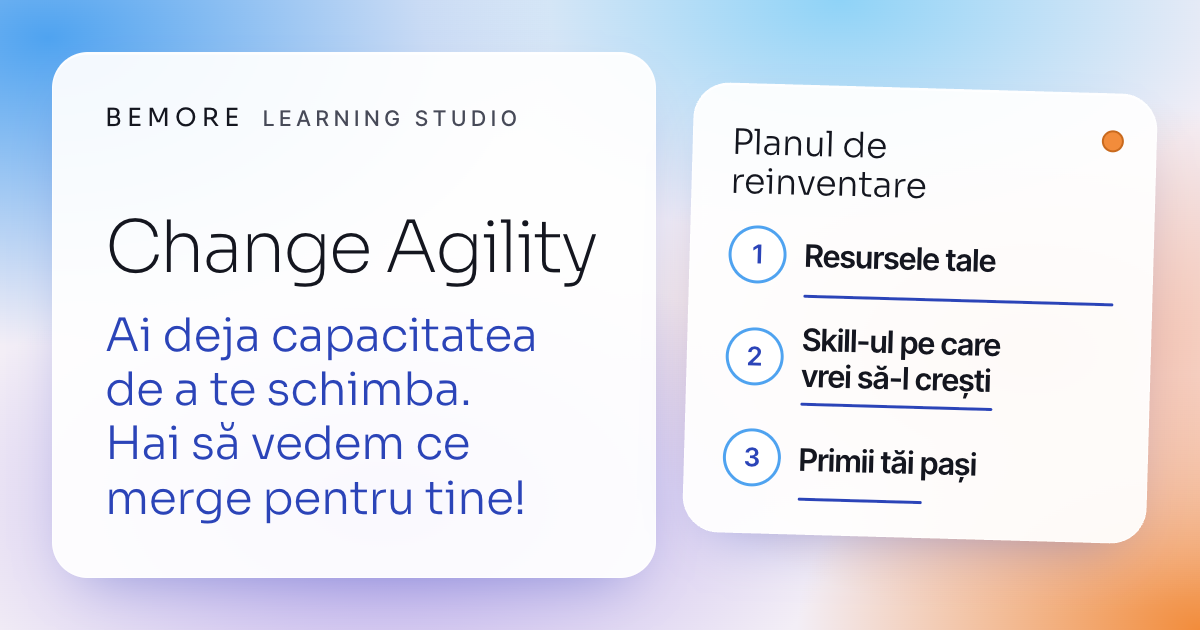
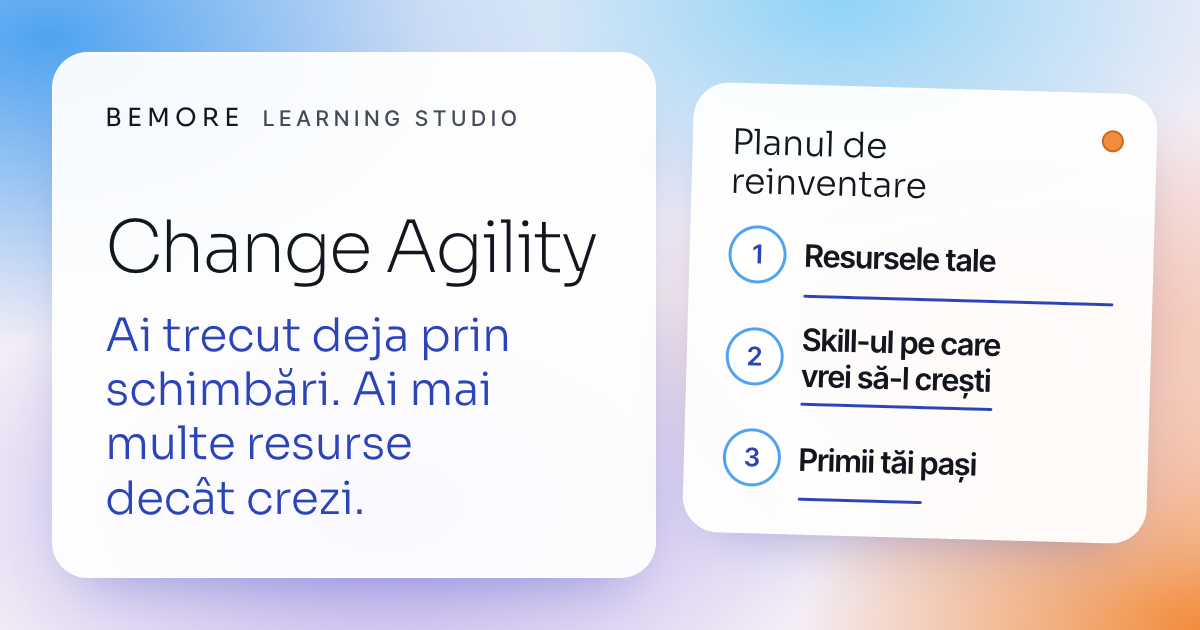
Change Agility: subtitlul rămâne cel vechi (Alex: „Lasă-l pe ăsta”)

Changed region(s): [[0.0925, 0.6032, 0.4317, 0.8444], [0.1233, 0.5127, 0.4625, 0.573]]

diff --git a/content/workshops/change-agility.html b/content/workshops/change-agility.html
@@ -148,7 +148,7 @@ section{padding-block:40px 4px;display:grid;gap:18px}
   <div class="text sticla citit">
     <p class="eyebrow"><span class="punct"></span>Workshop · 4 sau 6 ore</p>
     <h1>Change Agility</h1>
-    <p class="sub">Ai deja capacitatea de a te schimba. Hai să vedem ce merge pentru tine!</p>
+    <p class="sub">Ai trecut deja prin schimbări. Ai mai multe resurse decât crezi.</p>
     <p class="prom">Un workshop în care fiecare om descoperă ce l-a ajutat deja în schimbări și pleacă acasă cu planul lui de reinventare.</p>
     <div class="actiuni">
       <a class="btn plin" href="#ceri">Hai să vorbim</a>
